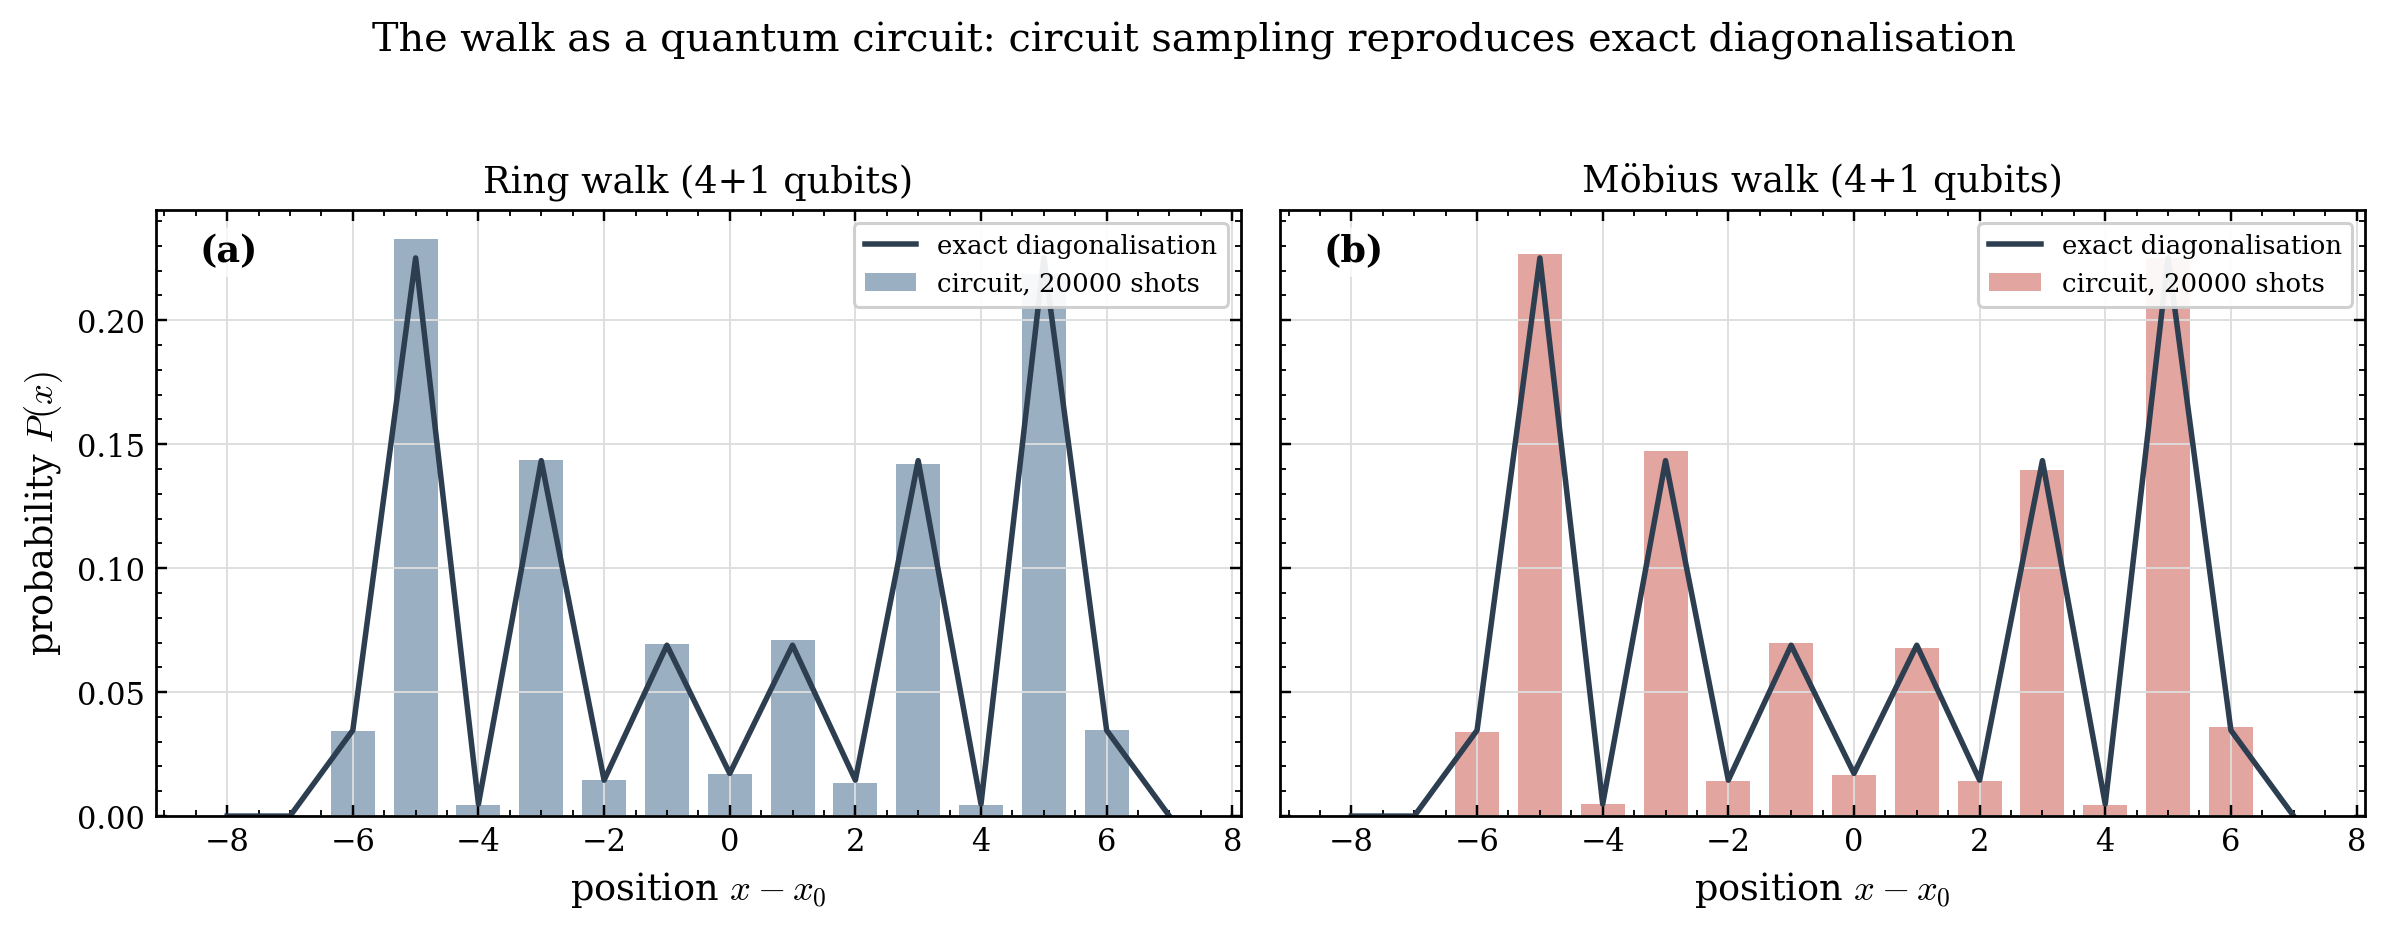
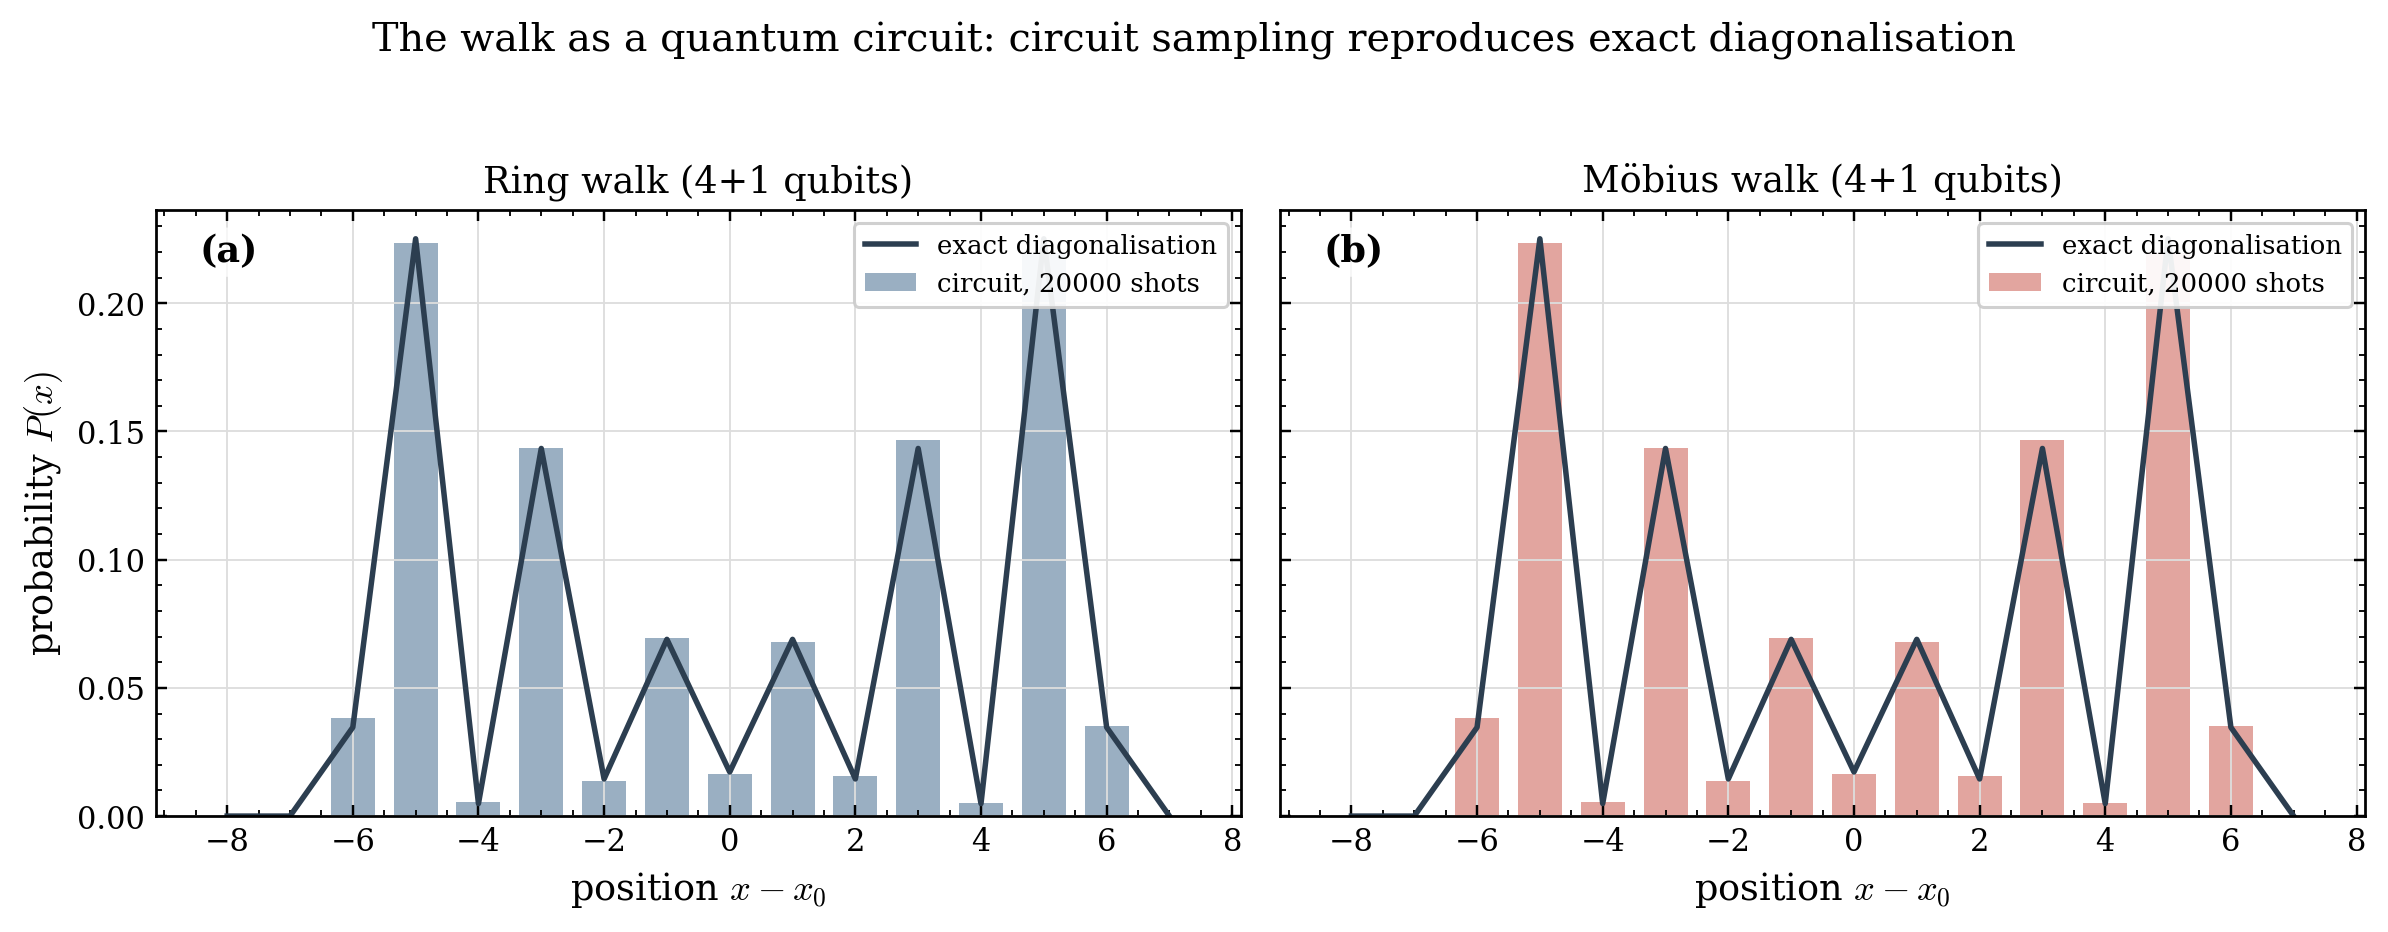
Make every figure reproducible, and tidy the packaging
The circuit example drew 20000 shots with no seed, so its figure was
different on every run and could never be compared against a previous one.
`run_walk` takes an optional `seed` (ignored on the exact path, which is
already deterministic) and the example passes one. All 11 figures now
regenerate byte-identically; before this, 10 did.

The phase diagram marked gap-closing lines as nu = 0, painting them the
same colour as the genuine trivial phase, so the boundaries read as thin
trivial regions. They now carry their own "undefined" colour, and the
example catches the ValueError that winding_number raises there. With the
vectorised sweep it builds in about 3 seconds rather than 8 minutes.

Packaging: the two __init__ files exported different symbol sets, and
`pytest tests/` failed from a fresh clone because only `python -m pytest`
put the project on the path. Exports are synced and pyproject sets
pythonpath, so the bare command works.

diff --git a/examples/phase_diagram.py b/examples/phase_diagram.py
@@ -28,19 +28,25 @@ FIGDIR = os.path.join(ROOT, "figures")
 def main(n_grid=61):
     st.apply()
     ts = np.linspace(-np.pi / 2, np.pi / 2, n_grid)
+    # sentinel 2 = "undefined" (on a gap-closing line), kept distinct from the
+    # genuine trivial phase nu = 0 so the boundary lines cannot be misread as
+    # thin trivial regions.
+    UNDEF = 2
     Z = np.zeros((n_grid, n_grid), dtype=int)
     for i, t2 in enumerate(ts):
         for j, t1 in enumerate(ts):
-            # avoid exact gap-closing lines where nu is undefined
-            if abs(abs(t1) - abs(t2)) < 1e-3:
-                Z[i, j] = 0
-            else:
+            # winding_number now raises on the gap-closing lines rather than
+            # returning a deceptively clean integer -- mark those points.
+            try:
                 Z[i, j] = winding_number(t1, t2, n_k=800)
+            except ValueError:
+                Z[i, j] = UNDEF
 
     fig, ax = plt.subplots(figsize=(5.8, 5.0))
     ax.grid(False)
-    cmap = ListedColormap([st.RING, "#ecf0f1", st.MOBIUS])   # -1, 0, +1
-    norm = BoundaryNorm([-1.5, -0.5, 0.5, 1.5], cmap.N)
+    # -1, 0, +1, undefined
+    cmap = ListedColormap([st.RING, "#ecf0f1", st.MOBIUS, st.ACCENT])
+    norm = BoundaryNorm([-1.5, -0.5, 0.5, 1.5, 2.5], cmap.N)
     im = ax.imshow(Z, origin="lower", norm=norm, cmap=cmap,
                    extent=[-np.pi/2, np.pi/2, -np.pi/2, np.pi/2], aspect="equal")
     ax.set_xlabel(r"coin angle $\theta_1$")
@@ -76,6 +82,8 @@ def main(n_grid=61):
     out = os.path.join(FIGDIR, "phase_diagram.png")
     fig.savefig(out)
     print(f"saved {out}")
+    n_undef = int(np.count_nonzero(Z == UNDEF))
+    print(f"gap-closing (undefined) grid points flagged: {n_undef}")
     print("distinct winding values found:", sorted(set(Z.flatten().tolist())))
 
 

diff --git a/qwalktopo/__init__.py b/qwalktopo/__init__.py
@@ -1,14 +1,18 @@
-from .shift import ring_shift, mobius_shift, klein_shift
+from .shift import ring_shift, mobius_shift, klein_shift, check_topology, TOPOLOGIES
 from .walk import split_step_walk, quasi_energies, coin
 from .invariants.winding import winding_number, bloch_floquet
 from .invariants.klein import (klein_bottle_invariant, berry_phase_kx_loop,
-                               cyz_hamiltonian, CYZ_NONTRIVIAL, CYZ_TRIVIAL)
+                               cyz_hamiltonian, cyz_floquet_walk,
+                               cyz_floquet_effective_hamiltonian, check_glide,
+                               GLIDE_U, CYZ_NONTRIVIAL, CYZ_TRIVIAL)
 from .noise import (run_noisy_walk, mean_chiral_displacement, coin_channel,
                     symmetric_walk, topology_distinguishability)
 
-__all__ = ["ring_shift", "mobius_shift", "klein_shift", "split_step_walk",
-           "quasi_energies", "coin", "winding_number", "bloch_floquet",
-           "klein_bottle_invariant", "berry_phase_kx_loop", "cyz_hamiltonian",
+__all__ = ["ring_shift", "mobius_shift", "klein_shift", "check_topology",
+           "TOPOLOGIES", "split_step_walk", "quasi_energies", "coin",
+           "winding_number", "bloch_floquet", "klein_bottle_invariant",
+           "berry_phase_kx_loop", "cyz_hamiltonian", "cyz_floquet_walk",
+           "cyz_floquet_effective_hamiltonian", "check_glide", "GLIDE_U",
            "CYZ_NONTRIVIAL", "CYZ_TRIVIAL", "run_noisy_walk",
            "mean_chiral_displacement", "coin_channel", "symmetric_walk",
            "topology_distinguishability"]

diff --git a/qwalktopo/circuit.py b/qwalktopo/circuit.py
@@ -88,18 +88,23 @@ def walk_unitary(N: int, theta1: float, theta2: float,
 
 def run_walk(N: int, theta1: float, theta2: float, steps: int,
              x0: int | None = None, topology: str = "ring",
-             shots: int | None = None) -> np.ndarray:
+             shots: int | None = None, seed: int | None = None) -> np.ndarray:
     """Run the circuit and return the position probability distribution P(x).
 
     Starts a walker localised at ``x0`` (default N//2) with the balanced coin
     (|0>+i|1>)/sqrt(2). With ``shots`` set, samples on the simulator; otherwise
     returns exact probabilities.
+
+    ``seed`` fixes the sampler's random stream so a shot-based run is
+    reproducible. It is ignored when ``shots`` is None (that path is exact and
+    deterministic already). Pass one whenever a sampled result is going into a
+    figure or a comparison -- otherwise every run gives a different histogram.
     """
     qml = _pennylane()
     n = _n_qubits(N)
     if x0 is None:
         x0 = N // 2
-    dev = qml.device("default.qubit", wires=n + 1, shots=shots)
+    dev = qml.device("default.qubit", wires=n + 1, shots=shots, seed=seed)
 
     @qml.qnode(dev)
     def circuit():

diff --git a/qwalktopo/invariants/__init__.py b/qwalktopo/invariants/__init__.py
@@ -1,4 +1,10 @@
 from .winding import winding_number, bloch_floquet
 from .klein import (klein_bottle_invariant, berry_phase_kx_loop,
-                    cyz_hamiltonian, CYZ_NONTRIVIAL, CYZ_TRIVIAL, GLIDE_U,
-                    cyz_floquet_walk, cyz_floquet_effective_hamiltonian)
+                    cyz_hamiltonian, cyz_floquet_walk,
+                    cyz_floquet_effective_hamiltonian, check_glide,
+                    GLIDE_U, CYZ_NONTRIVIAL, CYZ_TRIVIAL)
+
+__all__ = ["winding_number", "bloch_floquet", "klein_bottle_invariant",
+           "berry_phase_kx_loop", "cyz_hamiltonian", "cyz_floquet_walk",
+           "cyz_floquet_effective_hamiltonian", "check_glide", "GLIDE_U",
+           "CYZ_NONTRIVIAL", "CYZ_TRIVIAL"]

diff --git a/examples/circuit_backend.py b/examples/circuit_backend.py
@@ -44,7 +44,9 @@ def main():
     fig, ax = plt.subplots(1, 2, figsize=(11, 4.3), sharey=True)
     for a, topo, col in [(ax[0], "ring", st.RING), (ax[1], "mobius", st.MOBIUS)]:
         x, p_ed = ed_distribution(N, t1, t2, T, topo)
-        p_shots = run_walk(N, t1, t2, T, topology=topo, shots=shots)
+        # seeded so the sampled histogram -- and this figure -- reproduce
+        p_shots = run_walk(N, t1, t2, T, topology=topo, shots=shots,
+                           seed=1234)
         a.plot(x, p_ed, "-", color=st.ACCENT, lw=1.8,
                label="exact diagonalisation")
         a.bar(x, p_shots, width=0.7, color=col, alpha=0.45,

diff --git a/tests/test_circuit.py b/tests/test_circuit.py
@@ -43,3 +43,12 @@ def test_circuit_dynamics_match_ed(topology):
 def test_circuit_requires_power_of_two():
     with pytest.raises(ValueError):
         walk_unitary(12, 0.6, 0.35)
+
+
+def test_sampled_run_is_reproducible_with_a_seed():
+    # an unseeded shot-based run gives a different histogram every time, which
+    # silently makes any figure built from it unreproducible.
+    a = run_walk(8, 0.6, 0.35, 4, shots=2000, seed=7)
+    b = run_walk(8, 0.6, 0.35, 4, shots=2000, seed=7)
+    assert np.array_equal(a, b)
+    assert not np.array_equal(a, run_walk(8, 0.6, 0.35, 4, shots=2000, seed=8))
